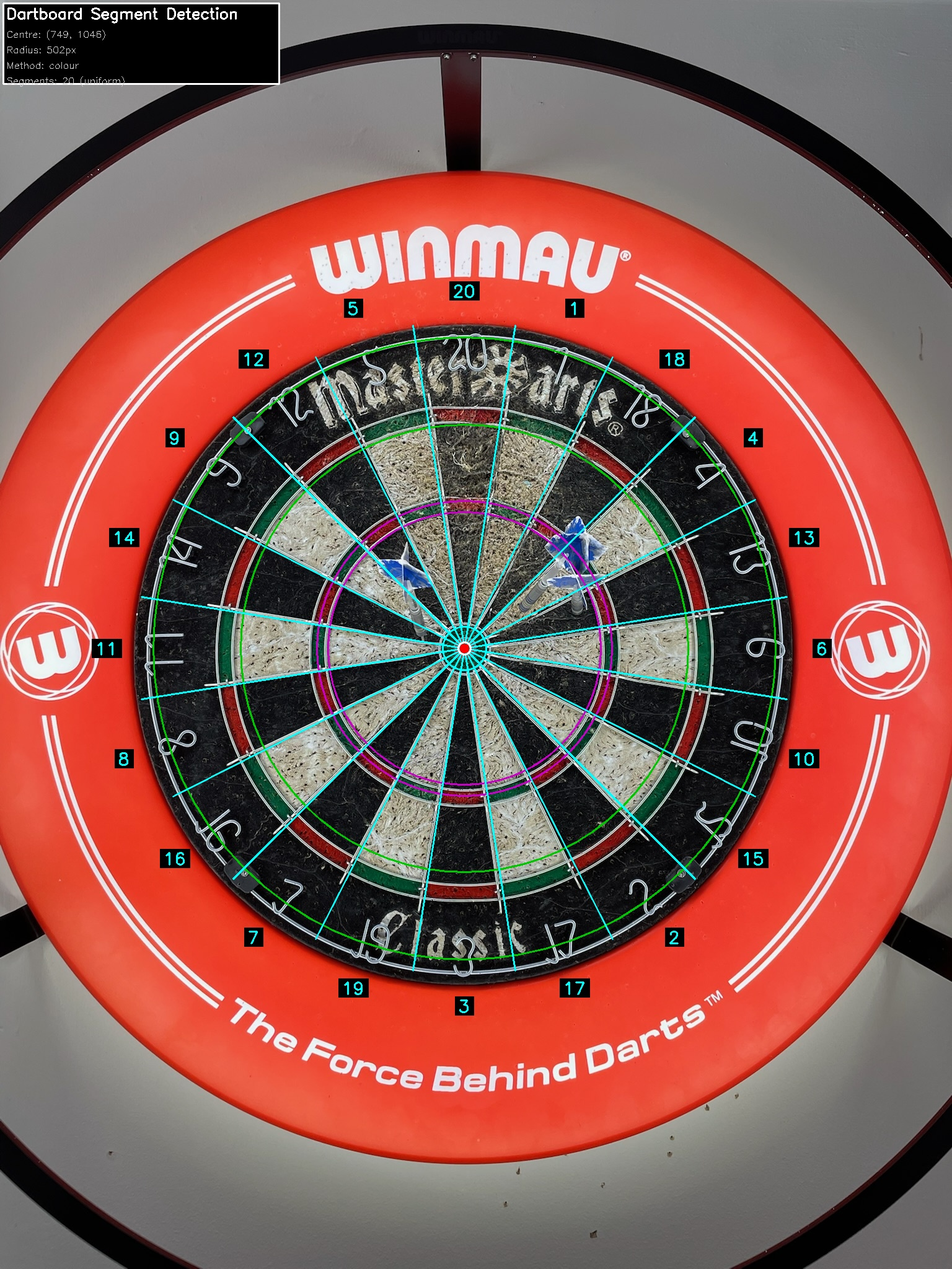
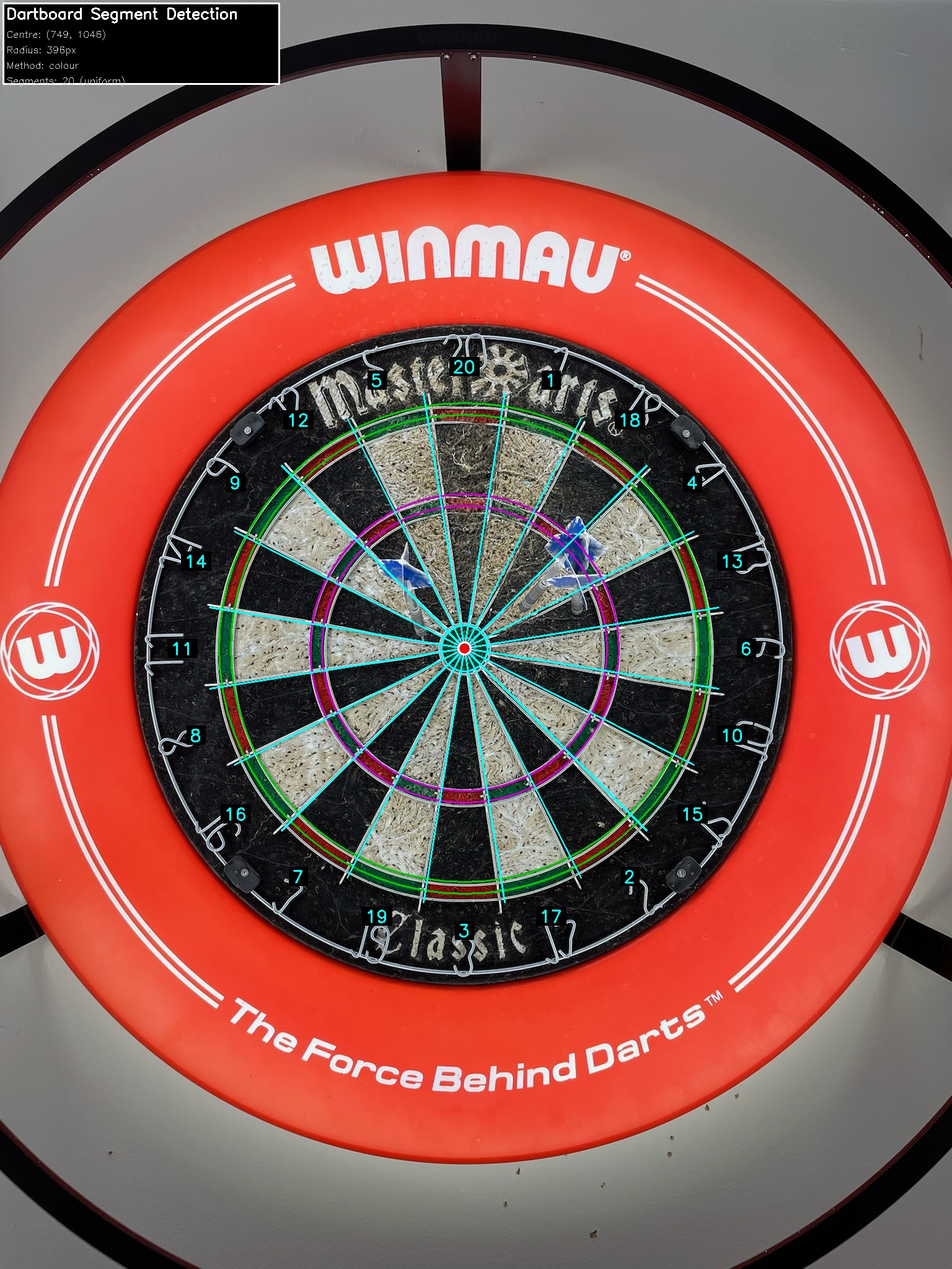
feat: tune dartboard segment detection parameters
Adjust radius values and ratios in dartboard detector to improve
segment accuracy and visualisation.

- Fine-tune segment radius calculations
- Update ratio parameters for better boundary detection
- Regenerate test segment images with improved accuracy

diff --git a/app/services/dartboard_detector.py b/app/services/dartboard_detector.py
@@ -33,17 +33,18 @@ class DartboardDetector:
     
     # Ring ratios (relative to dartboard radius - the outer double ring)
     # Standard dartboard dimensions:
-    # - Playing diameter: 451mm (outer edge of double ring)
-    # - Double ring: outer edge to 162mm from centre = 324mm diameter
-    # - Triple ring: 214mm diameter outer to 198mm diameter inner
-    # - Outer bull: 31.8mm diameter
-    # - Inner bull: 12.7mm diameter
-    RATIO_OUTER_DOUBLE = 1.00  # This IS the outer radius
-    RATIO_INNER_DOUBLE = 0.72  # 162mm / 225.5mm
-    RATIO_OUTER_TRIPLE = 0.475  # 107mm / 225.5mm
-    RATIO_INNER_TRIPLE = 0.44   # 99mm / 225.5mm
-    RATIO_OUTER_BULL = 0.071    # 15.9mm / 225.5mm
-    RATIO_INNER_BULL = 0.028    # 6.35mm / 225.5mm
+    # - Outer double ring: 170mm radius (reference = 1.00)
+    # - Inner double ring: 162mm radius
+    # - Outer triple ring: 107mm radius
+    # - Inner triple ring: 99mm radius
+    # - Outer bull: 15.9mm radius
+    # - Inner bull: 6.35mm radius
+    RATIO_OUTER_DOUBLE = 1.00   # 170mm / 170mm - This IS the outer radius
+    RATIO_INNER_DOUBLE = 0.953  # 162mm / 170mm
+    RATIO_OUTER_TRIPLE = 0.629  # 107mm / 170mm
+    RATIO_INNER_TRIPLE = 0.582  # 99mm / 170mm
+    RATIO_OUTER_BULL = 0.094    # 15.9mm / 170mm
+    RATIO_INNER_BULL = 0.037    # 6.35mm / 170mm
     
     def __init__(self, debug=True):
         """Initialise the detector."""
@@ -126,8 +127,8 @@ class DartboardDetector:
                 self.logger.info("Refined centre using bullseye detection")
             
             # The orange surround is larger than the actual dartboard
-            # Dartboard playing surface is approximately 62% of surround radius
-            dartboard_radius = int(outer_radius * 0.62)
+            # Dartboard playing surface is approximately 49% of surround radius
+            dartboard_radius = int(outer_radius * 0.49)
             
             return {
                 'centre': (cx, cy),

diff --git a/README.md b/README.md
@@ -55,7 +55,7 @@ uv sync
 Test the dartboard detector with the provided test images:
 
 ```bash
-python test_dartboard_detector.py
+uv run python app/test_dartboard_detector.py
 ```
 
 This will:
@@ -72,7 +72,7 @@ This will:
 from app.services.dartboard_detector import DartboardDetector
 import cv2
 
-# Initialize detector
+# Initialise detector
 detector = DartboardDetector(debug=True)
 
 # Load image
